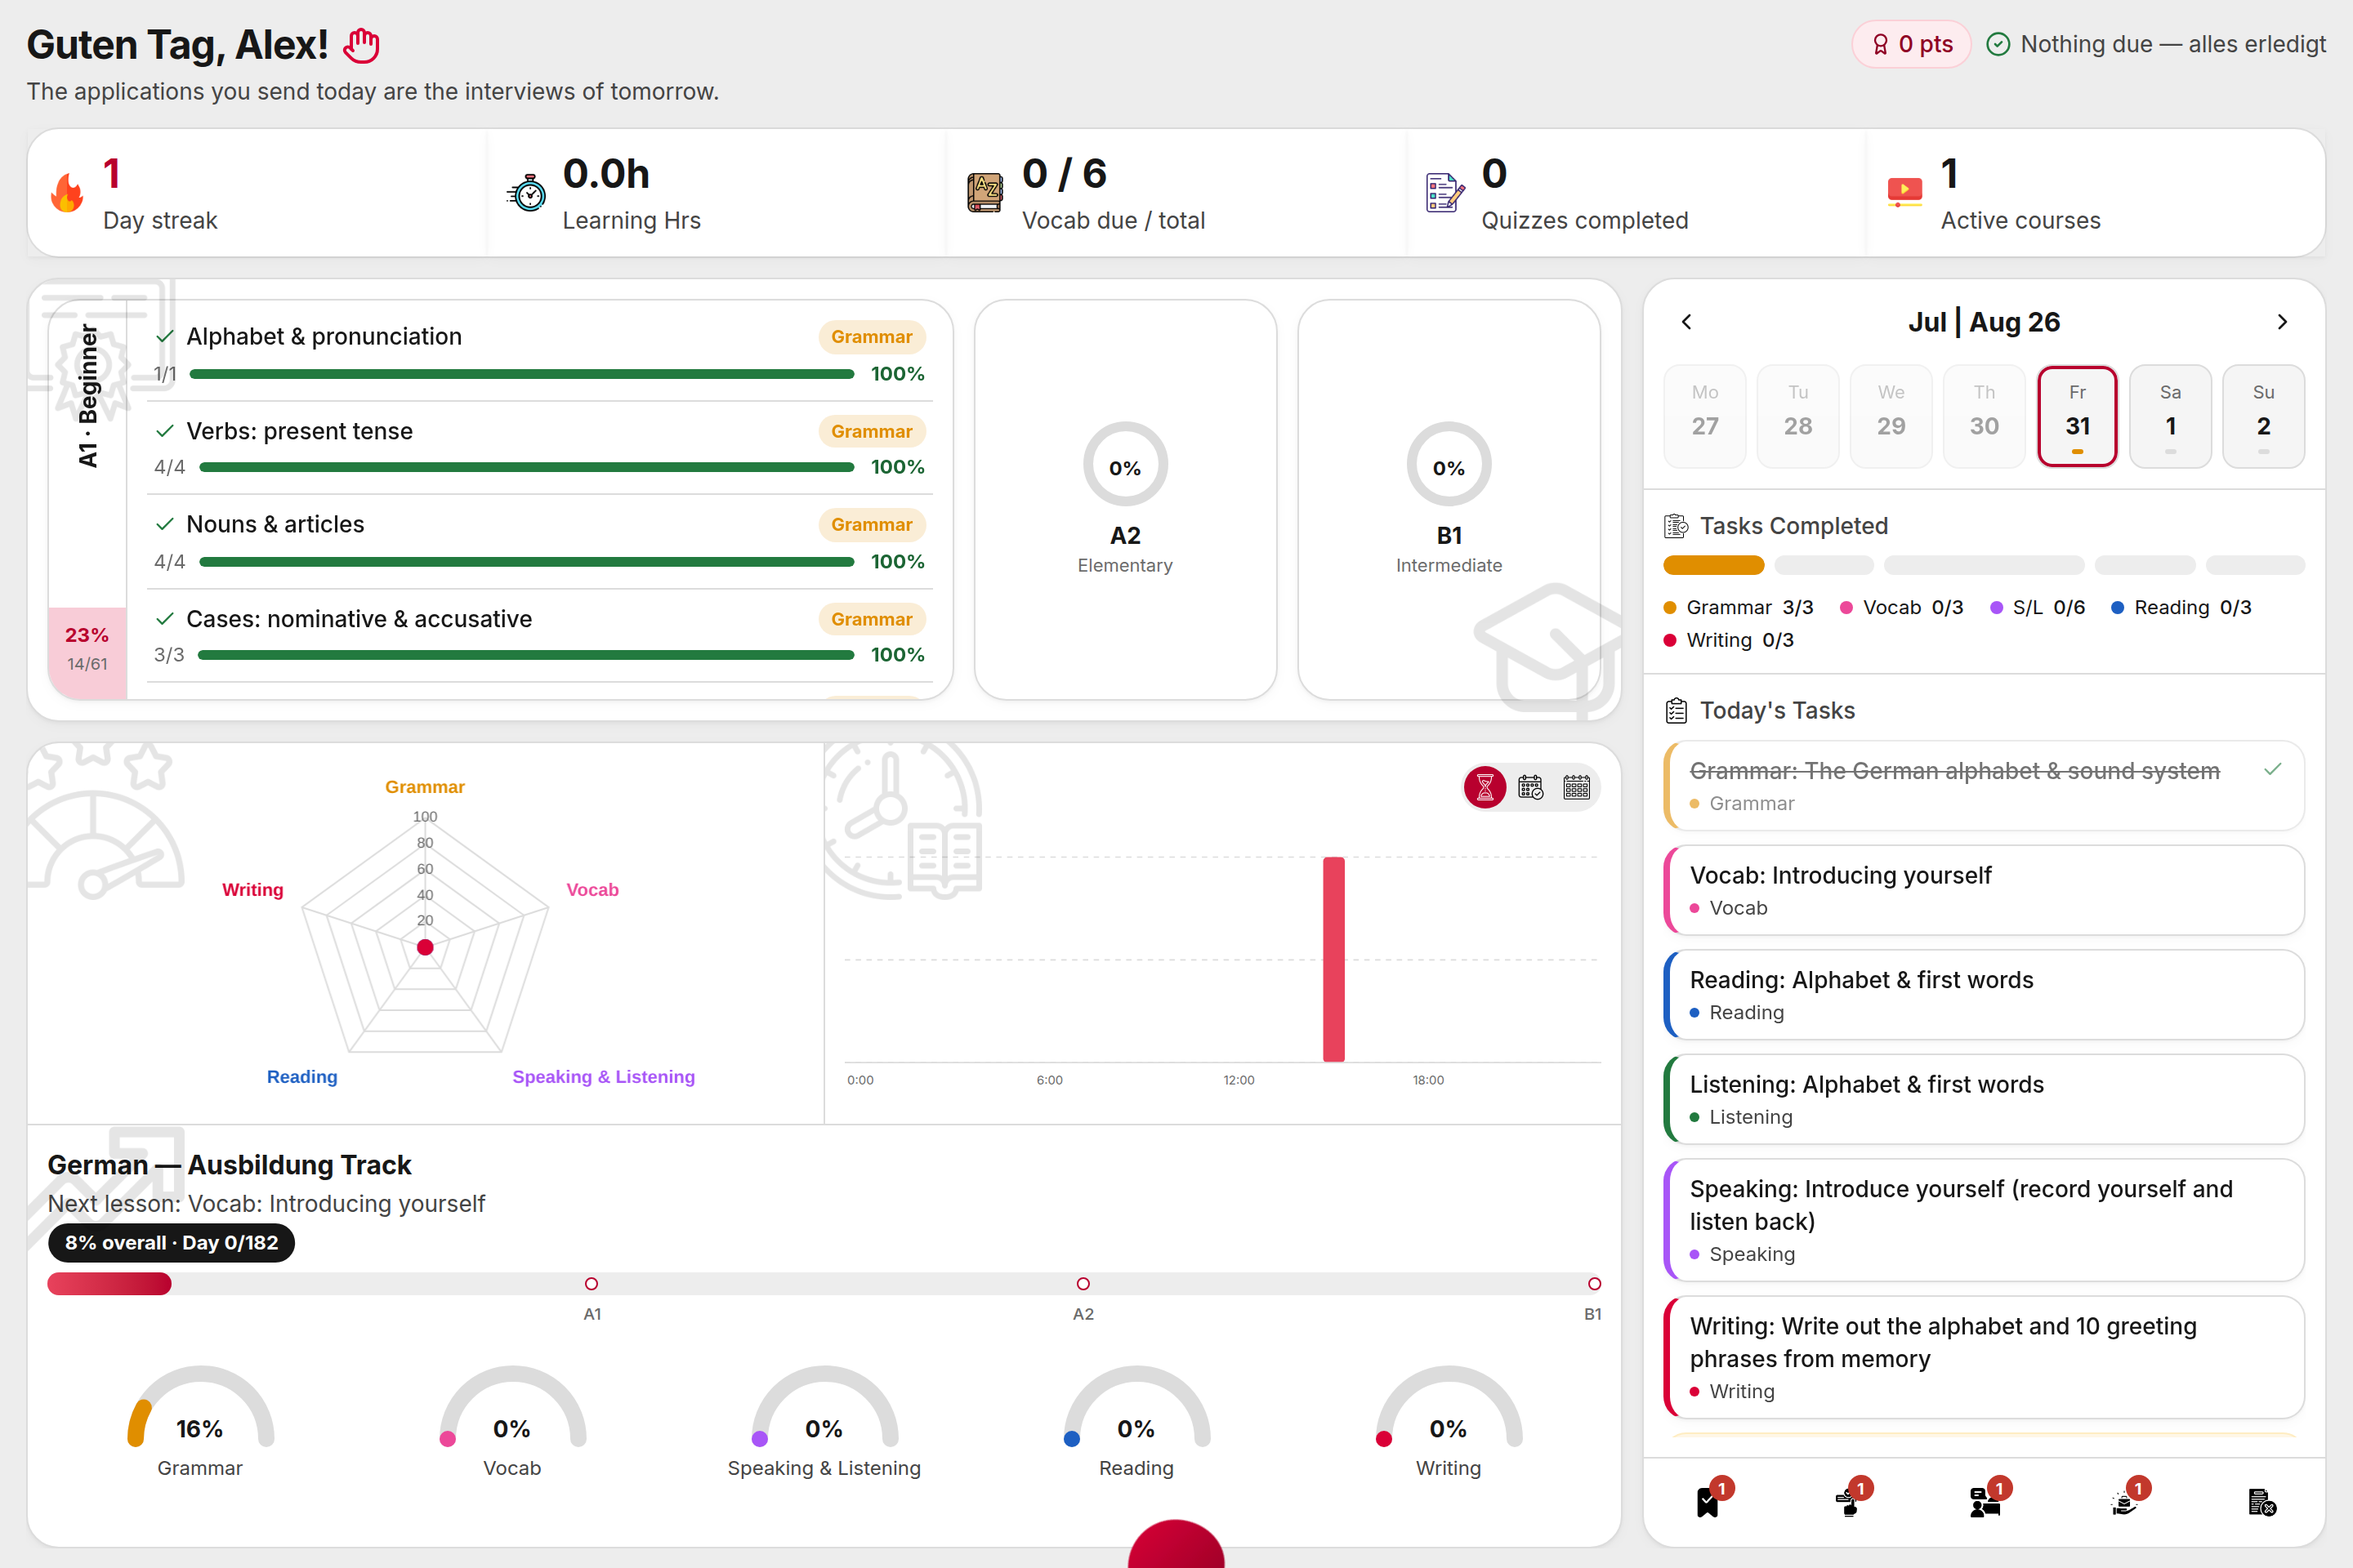
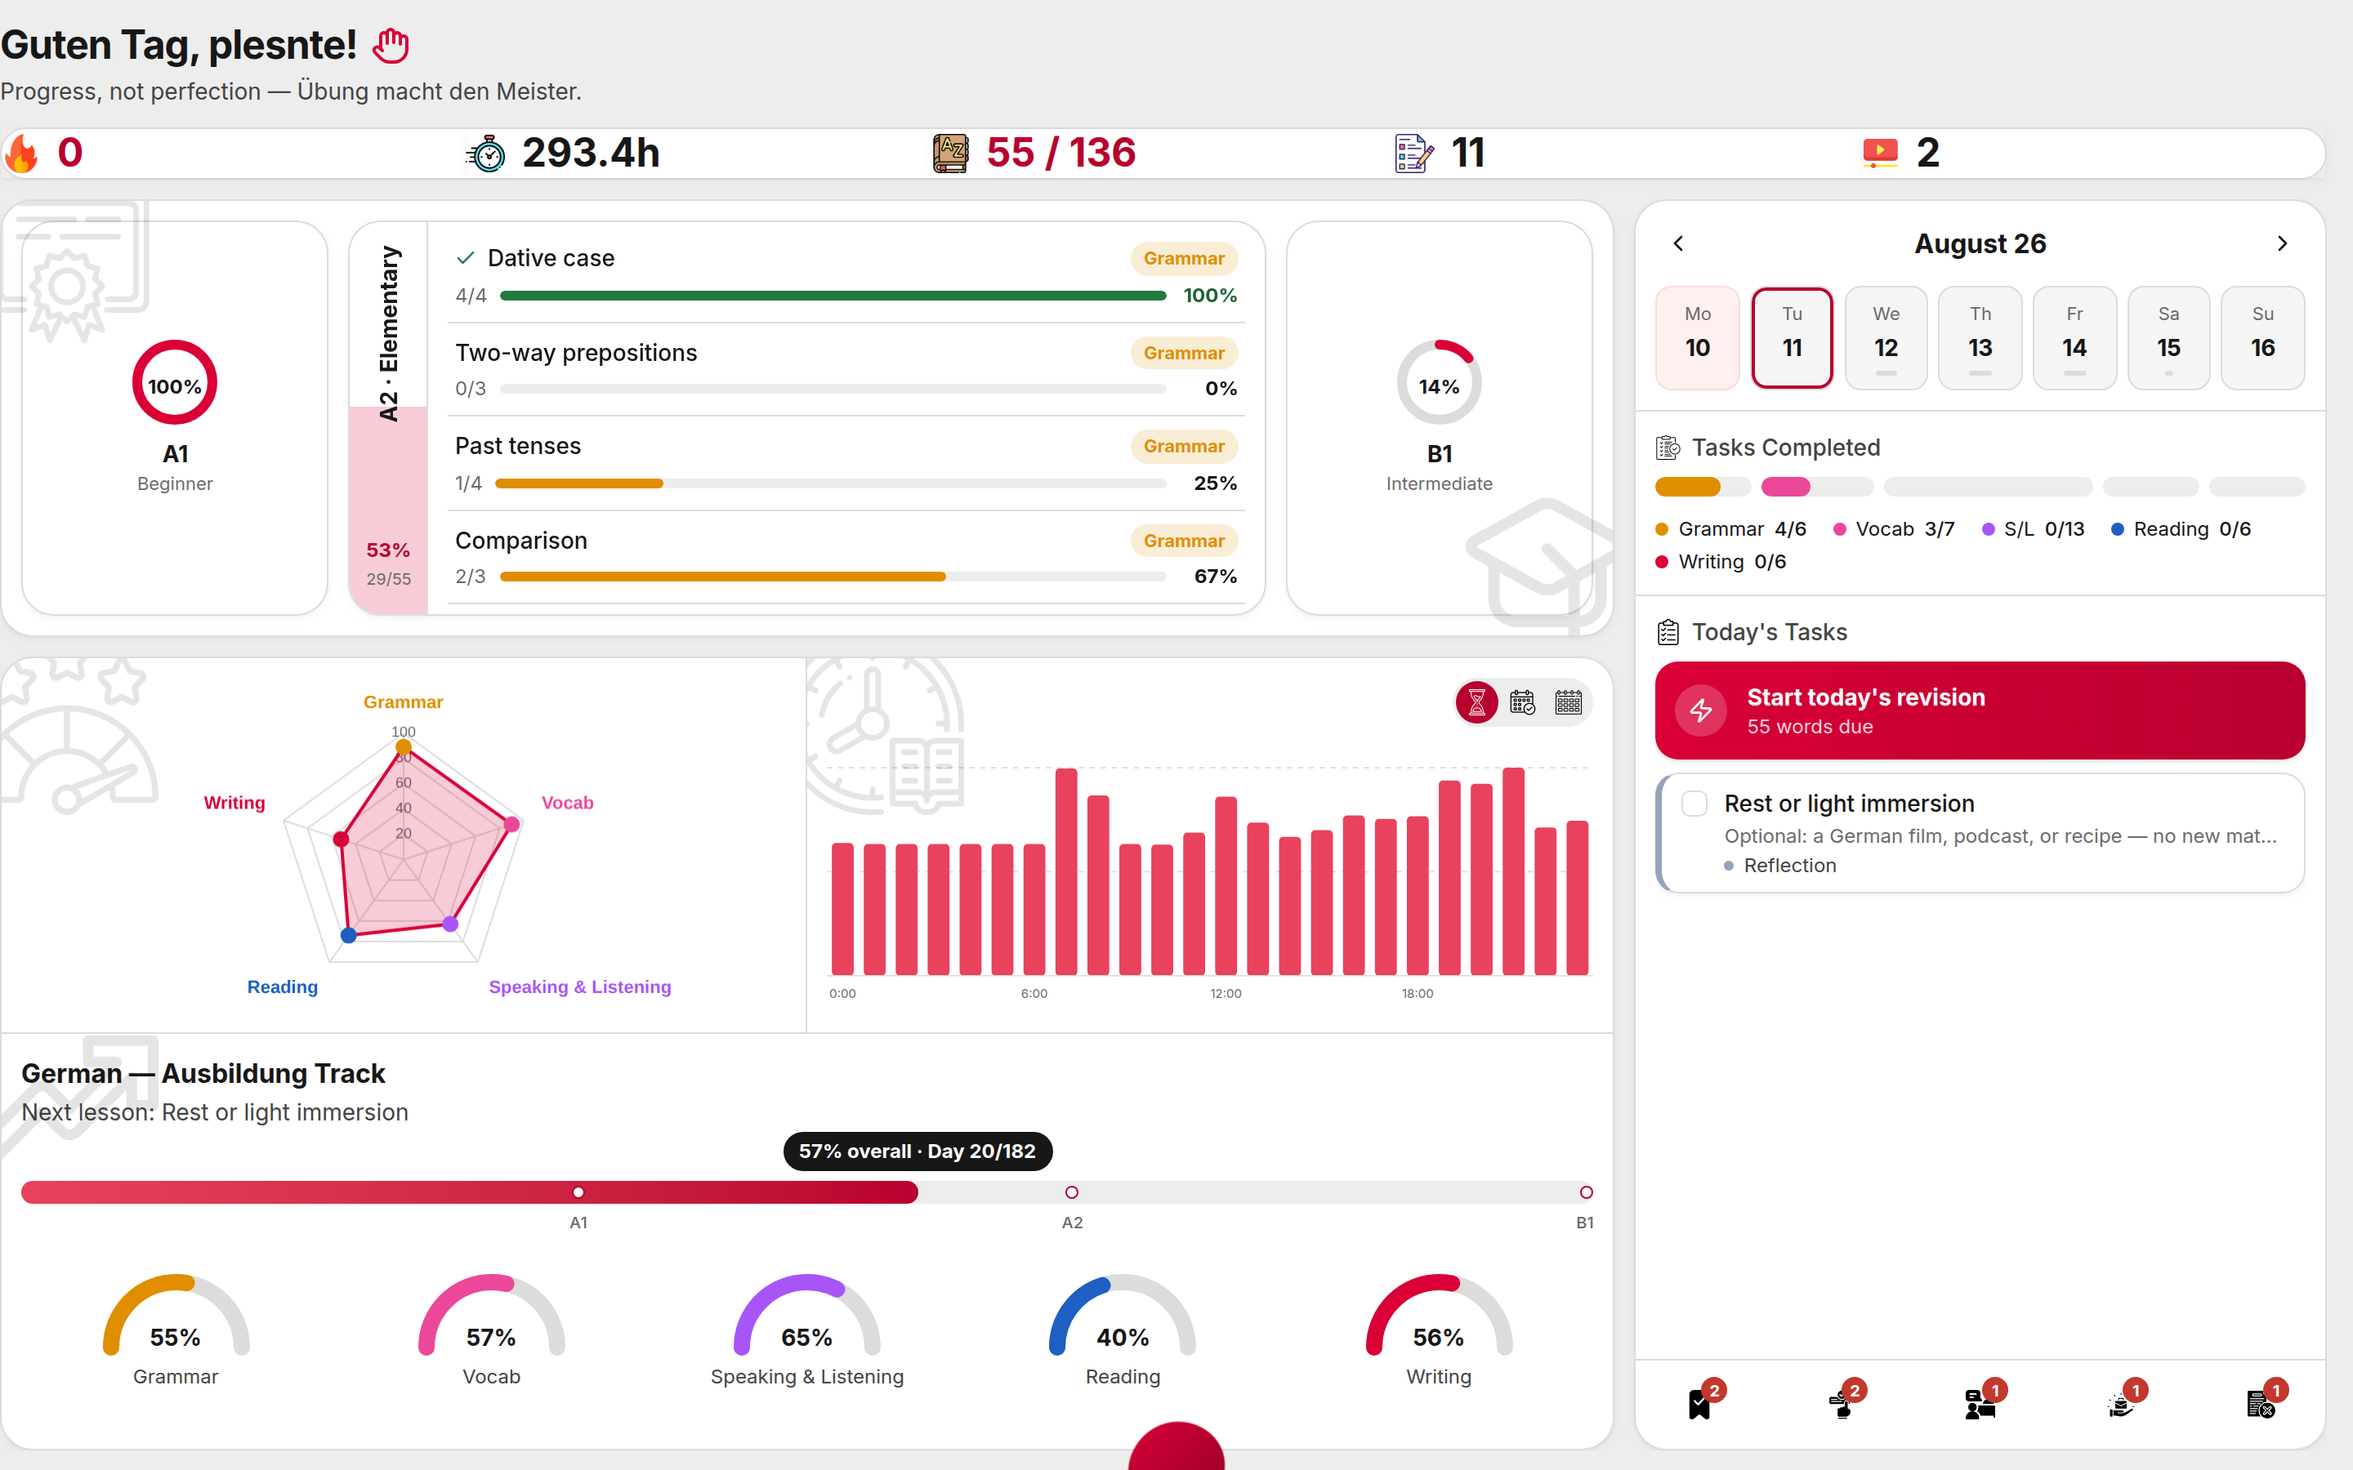
Refresh README screenshots and remove stale gamification references
Dashboard/Vocabulary screenshots were pre-redesign; add first-ever
mobile screenshots (Dashboard, Vocabulary) and a Syllabus screenshot
for the Learning Hub, which had none. Gamification (points/badges)
was removed from the app on 2026-08-08 but README.md/docs/ROADMAP.md
still described it as a current feature.

diff --git a/README.md b/README.md
@@ -8,10 +8,11 @@ a German vocabulary manager with spaced-repetition review, kept in **two-way syn
 with my Obsidian vault**. **V2** adds the application side: a Job Search page
 (kanban application tracker + a CV shelf, with best-effort autofill from a pasted
 posting URL) and a document checklist for the Ausbildung visa process. **V3** adds
-a Learning Progress Hub — a CEFR syllabus, a day-by-day study roadmap, self-tests,
-and gamification — feeding a richer dashboard.
+a Learning Progress Hub — a CEFR syllabus, a day-by-day study roadmap, and
+self-tests — feeding a richer dashboard.
 
 ![Dashboard](docs/screenshots/10-dashboard-v2.png)
+![Dashboard — mobile](docs/screenshots/11-dashboard-mobile.png)
 
 ## What V1 does
 
@@ -19,6 +20,7 @@ and gamification — feeding a richer dashboard.
 - **Vocabulary manager** — search, filter by lesson, expand for full detail
   (meaning, IPA, grammar, example, pronunciation audio).
   ![Vocabulary](docs/screenshots/3-vocabulary.png)
+  ![Vocabulary — mobile](docs/screenshots/12-vocabulary-mobile.png)
 - **Automatic enrichment** — type `Zug, Bahnhof, fahren` and the backend fetches
   meaning (en.wiktionary), IPA + gender/plural/verb forms + an example sentence
   (de.wiktionary wikitext), and pronunciation audio (Wikimedia Commons recording,
@@ -69,6 +71,7 @@ snapshot). Reviews done in the app and in Obsidian update the same
 - **CEFR syllabus** — 174 seeded topics (grammar/vocab/skill) across A1, A2, and
   B1. Checking items off drives per-level completion percentage and "what's
   next" suggestions.
+  ![Syllabus](docs/screenshots/13-syllabus.png)
 - **Day-by-day roadmap** — a 182-day (26-week) study plan to Goethe-exam
   readiness, generated live from syllabus progress, with a calendar view and
   overdue backlog.
@@ -77,8 +80,8 @@ snapshot). Reviews done in the app and in Obsidian update the same
   expose a progress API.
 - **Self-tests & Goethe readiness** — a 163-question bank built from syllabus
   topics and vocab/SRS data, with weekly/monthly readiness rollups.
-- **Gamification & activity tracking** — points, 15 badges, and day-streaks
-  computed from real activity, feeding the dashboard's activity history.
+- **Activity tracking** — day-streaks and study-time history computed from
+  real activity, feeding the dashboard's activity chart.
 - **Notifications & portals** — on-demand reminders (stale applications,
   expiring documents) and quick-link bookmarks to platforms like GoAusbildung,
   since none of them offer account sync or public APIs.
@@ -127,8 +130,8 @@ cd server && npm test
 
 Covers the vault sync's byte-identical round-trip, SRS scheduling parity with
 the Obsidian plugin, and pure-logic suites for applications, checklist
-reminders, and the Learning Hub (roadmap generation, quizzes, gamification,
-activity tracking).
+reminders, and the Learning Hub (roadmap generation, quizzes, activity
+tracking).
 
 ## Deployment
 
@@ -148,7 +151,8 @@ See [docs/ROADMAP.md](docs/ROADMAP.md) for the full ecosystem plan and feature s
   best-effort autofill from a pasted posting URL; checklist redesigned around
   search, an urgency-first "Up Next" panel, and category filters.)
 - ~~**V3 — Learning Progress Hub**~~ ✅ CEFR syllabus, day-by-day roadmap,
-  self-tests, gamification, activity tracking.
+  self-tests, activity tracking. (2026-08-08: gamification — points, badges —
+  removed in favor of the plain activity/streak tracking above.)
 - **Now** (reprioritized 2026-08-05, cutting across strict version order —
   see [docs/ROADMAP.md](docs/ROADMAP.md#phasing) for the full breakdown):
   app-wide bug-fixing pass (**top priority**), vocab PDF export + CLI (the

diff --git a/docs/ROADMAP.md b/docs/ROADMAP.md
@@ -14,14 +14,16 @@ sketches the next features in enough detail to start implementation from.
 | 3 | Bureaucracy Companion | **Partially built** (V2) | Document checklist seeded with ~24 non-EU Ausbildung items, file attachments, expiry reminders, search, category filters, and an urgency-first "Up Next" view. Missing: guided explanatory content per topic (moves into the knowledge base) — long-run, deliberately deferred. |
 | 4 | European Resume Builder | **Retired, replaced with a simpler model** (V2) | Originally a form + live PDF preview (German Lebenslauf / ATS-friendly English templates, multiple CVs per account). Replaced 2026-07-31: a CV is now just a file you already have, uploaded and tagged, living on a shelf beside the application kanban — no in-app builder to keep in sync with a PDF export. Missing (if ever revisited): Europass template, cover letters, automated ATS checks (V4). |
 | 5 | Salary & Cost Planner | **Missing — long-run, deliberately deferred** | City comparison, taxes, rent, budget, savings projections. Carried forward from V3, not yet started. |
-| 6 | Deutschland Dashboard | **Built** (V2/V3) | Dashboard shows documents needing attention, application stats, syllabus/roadmap progress, study streaks, badges, and activity history. Missing: certificates, GitHub activity (V4). |
+| 6 | Deutschland Dashboard | **Built** (V2/V3) | Dashboard shows documents needing attention, application stats, syllabus/roadmap progress, study streaks, and activity history. Missing: certificates, GitHub activity (V4). |
 | 7 | Germany Knowledge Base | **Missing — long-run, deliberately deferred** | Guides for visa, Anmeldung, blocked account, insurance, housing, FAQs. Carried forward from V3, not yet started; a community-wiki model with contributions is a possible later evolution. |
 
 **V3 (Learning Progress Hub) shipped**: CEFR syllabus (174 items, A1→B1), a
 generated day-by-day 182-day roadmap, study-source registry (YouTube/Nicos
 Weg/Duolingo), self-test quizzes (163-question bank), weekly/monthly review
-and Goethe-readiness rollups, gamification (points, 15 badges, streaks), and
-session-based activity tracking. See the [README](../README.md#what-v3-adds)
+and Goethe-readiness rollups, day-streaks, and session-based activity
+tracking (gamification — points, 15 badges — shipped in V3 and was later
+removed, 2026-08-08, in favor of this plain activity/streak tracking). See
+the [README](../README.md#what-v3-adds)
 for the user-facing feature list. What's left from the original V3 scope —
 the salary & cost planner and the Germany knowledge base — carries forward
 (see Phasing below).
